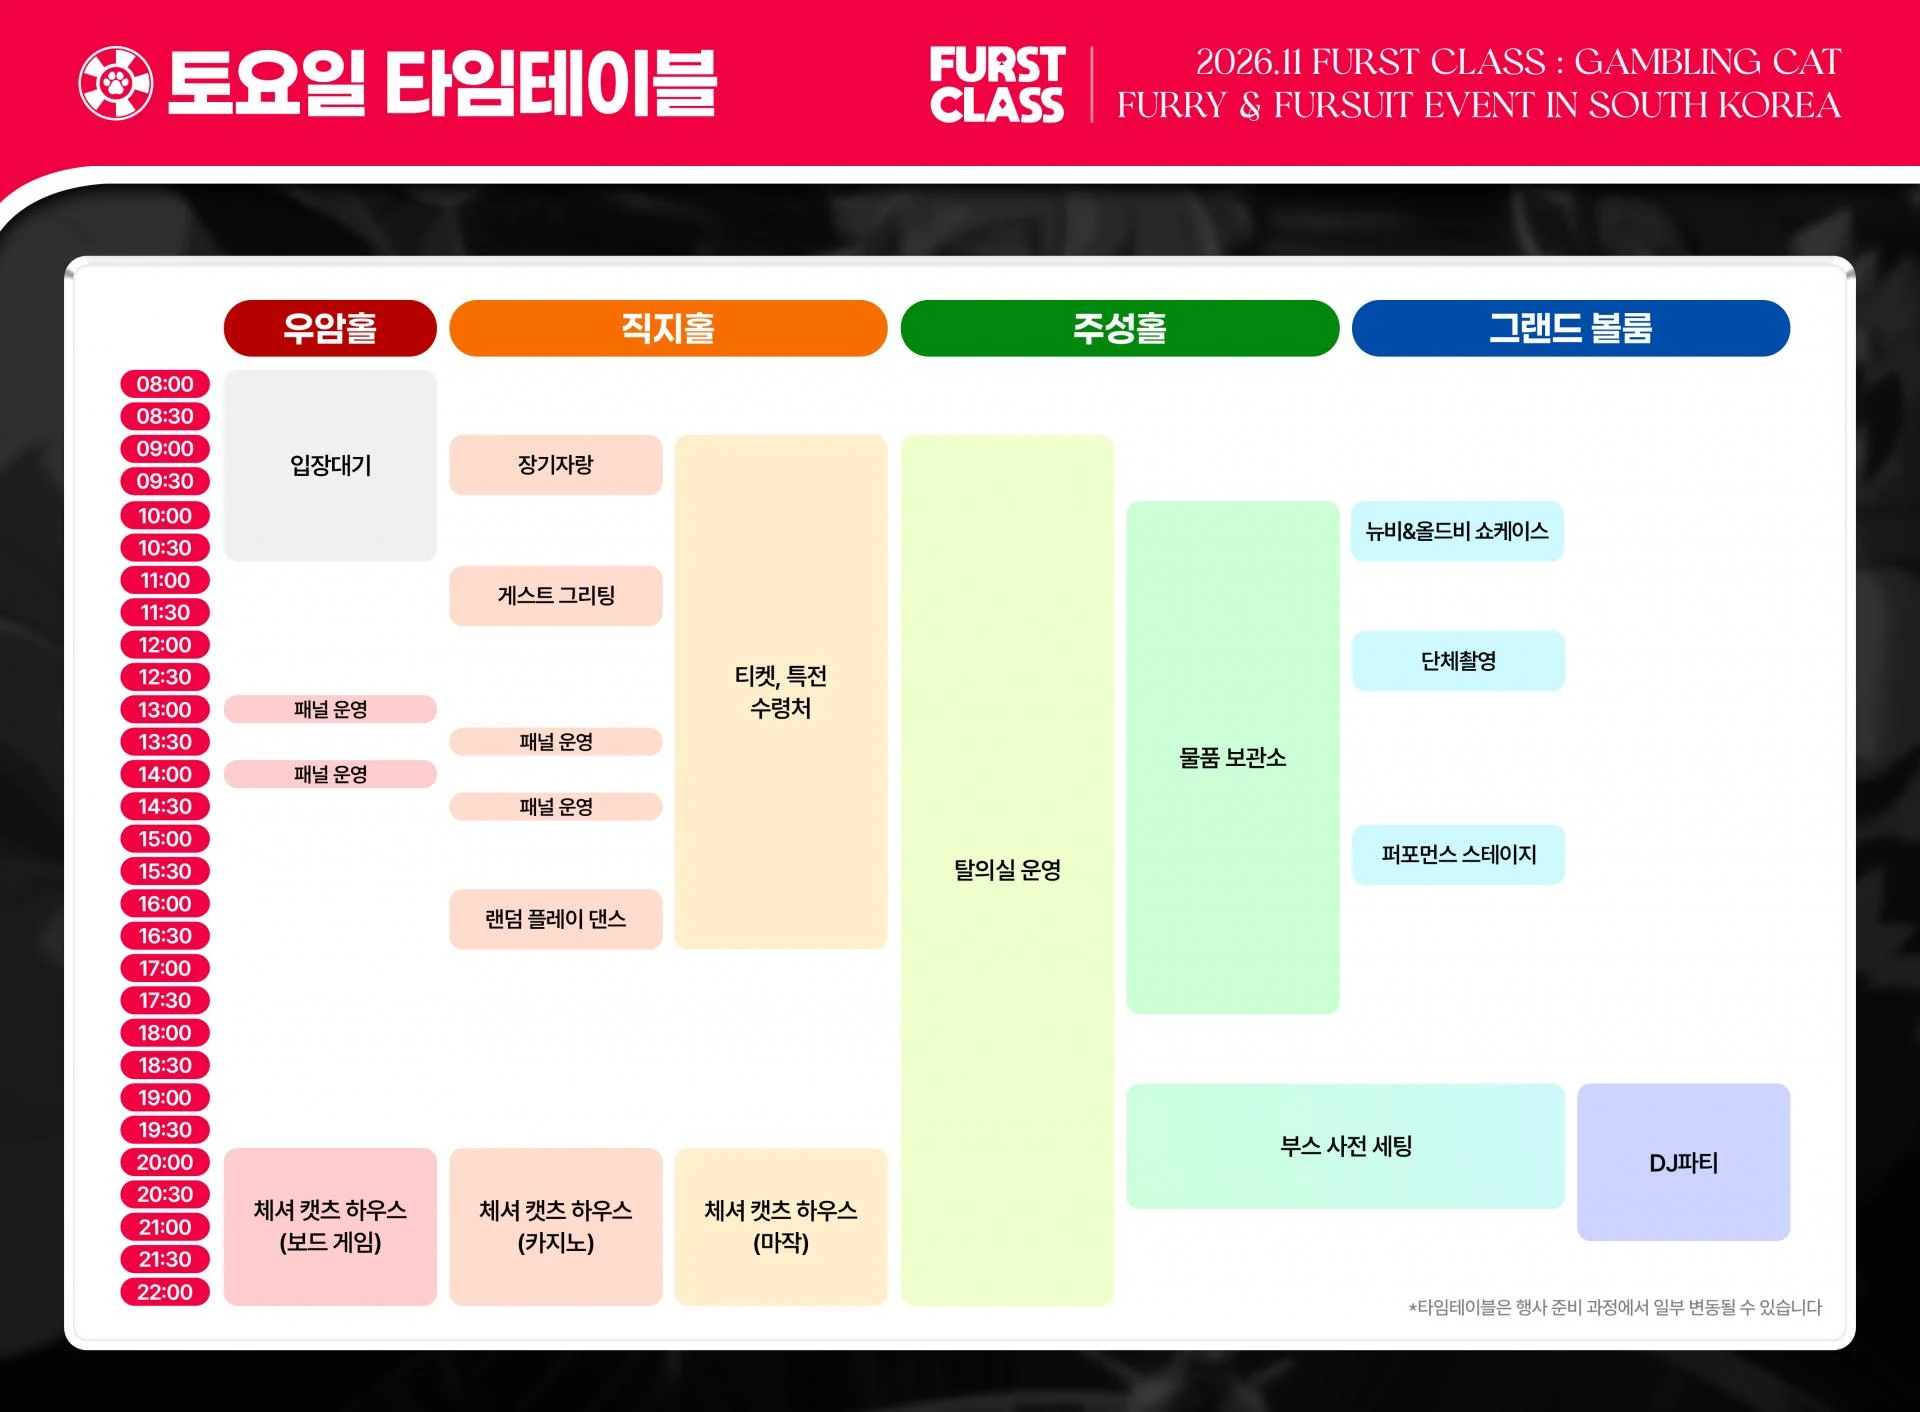
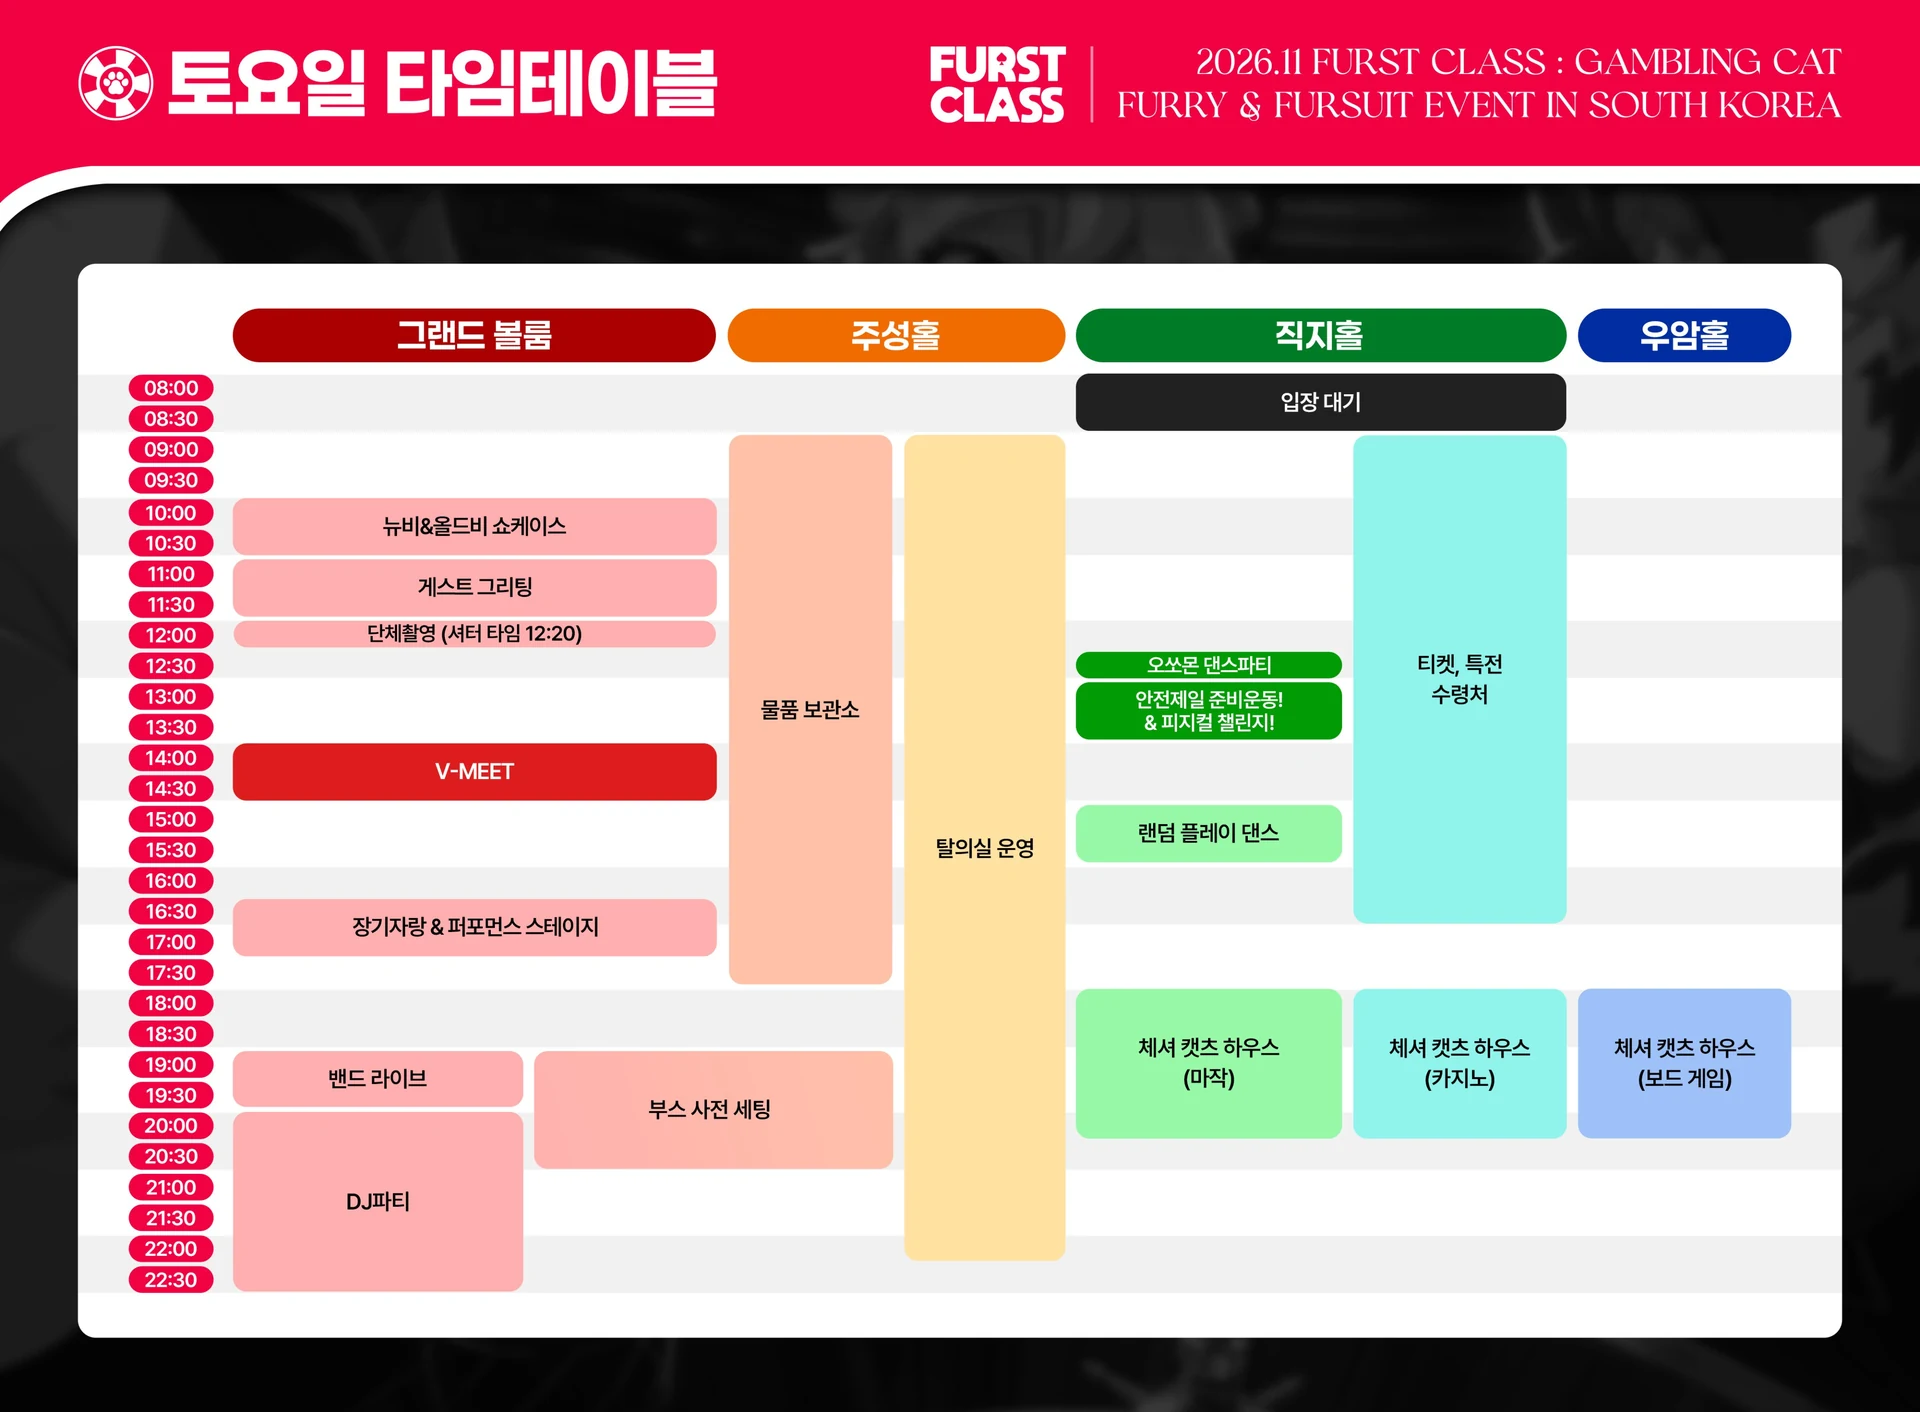
행사 시간표 탭 타임테이블을 공식 확정본(2026-10-24)으로 교체 (#61)
Claude-Session: https://claude.ai/code/session_01L4NeEYewGQCZoM1KTR5J76

diff --git a/index.html b/index.html
@@ -2085,7 +2085,7 @@ const I18N = {
     infoTimetableSun: "일요일 11/29",
     infoTimetableAlt: "{day} 타임테이블 (우암홀·직지홀·주성홀·그랜드 볼룸 시간별 일정)",
     infoTimetableHint: "이미지를 누르면 크게 볼 수 있어요. 큰 화면에서 한 번 더 누르면 원래 크기로 확대돼요.",
-    infoTimetableNote: "타임테이블은 행사 준비 과정에서 일부 변동될 수 있습니다 (공식 안내 이미지 기준, 2026-10-13).",
+    infoTimetableNote: "공식 계정에서 확정 발표한 타임테이블입니다 (2026-10-24 확정).",
     infoWeatherLoading: "날씨 정보를 불러오는 중...",
     infoWeatherUnavailable: "{date} 날씨 예보는 아직 제공되지 않습니다 (행사 약 2주 전부터 표시됩니다).",
     infoWeatherError: "날씨 정보를 불러오지 못했습니다.",
@@ -2240,7 +2240,7 @@ const I18N = {
     infoTimetableSun: "Sun 11/29",
     infoTimetableAlt: "{day} timetable (hourly schedule for each hall)",
     infoTimetableHint: "Tap the image to enlarge it. Tap again in the enlarged view to see it at full size.",
-    infoTimetableNote: "The timetable may change as the event is prepared (based on the official image, 2026-10-13).",
+    infoTimetableNote: "This is the final timetable announced by the official account (confirmed 2026-10-24).",
     infoWeatherLoading: "Loading weather...",
     infoWeatherUnavailable: "The forecast for {date} isn't available yet (it appears roughly 2 weeks before the event).",
     infoWeatherError: "Failed to load weather data.",
@@ -2395,7 +2395,7 @@ const I18N = {
     infoTimetableSun: "日曜日 11/29",
     infoTimetableAlt: "{day}のタイムテーブル（各ホールの時間別スケジュール）",
     infoTimetableHint: "画像をタップすると拡大できます。拡大画面でもう一度タップすると原寸で表示します。",
-    infoTimetableNote: "タイムテーブルは準備の都合で一部変更される場合があります（公式画像基準、2026-10-13）。",
+    infoTimetableNote: "公式アカウントで発表された確定版タイムテーブルです（2026-10-24 確定）。",
     infoWeatherLoading: "天気情報を読み込み中...",
     infoWeatherUnavailable: "{date}の天気予報はまだ提供されていません（開催の約2週間前から表示されます）。",
     infoWeatherError: "天気情報を読み込めませんでした。",
@@ -4468,10 +4468,11 @@ function fetchEventWeather(){
   return weatherCache;
 }
 
-// 행사 시간표 탭의 타임테이블: 공식 토요일·일요일 타임테이블 이미지(timetable/*.webp, 2026-10-13 받음)
+// 행사 시간표 탭의 타임테이블: 공식 토요일·일요일 타임테이블 이미지(timetable/*.webp, 2026-10-24 확정본으로 교체)
+// 이미지를 같은 이름으로 바꿀 때는 ?v= 값도 바꿔야 예전 이미지를 기억해 둔 브라우저에도 새 이미지가 보임
 const TIMETABLE_DAYS = [
-  { key: "sat", date: "2026-11-28", label: "infoTimetableSat", src: "timetable/sat.webp" },
-  { key: "sun", date: "2026-11-29", label: "infoTimetableSun", src: "timetable/sun.webp" },
+  { key: "sat", date: "2026-11-28", label: "infoTimetableSat", src: "timetable/sat.webp?v=20261024" },
+  { key: "sun", date: "2026-11-29", label: "infoTimetableSun", src: "timetable/sun.webp?v=20261024" },
 ];
 // 처음 보여줄 요일: 행사 둘째 날(한국 시간 11/29)에는 일요일, 그 외에는 토요일. 고른 요일은 탭을 오가는 동안 유지
 let timetableDay = new Date(Date.now() + 9 * 3600000).toISOString().slice(0, 10) === "2026-11-29" ? "sun" : "sat";

diff --git a/docs/wiki/기능-배치도와-행사-안내.md b/docs/wiki/기능-배치도와-행사-안내.md
@@ -49,12 +49,13 @@
   요일을 버튼으로 나눈 이유는 두 장을 세로로 이어 붙이면 탭이 너무 길어져서입니다.
 
 ## 어떻게 구현했나
-- 타임테이블: 이미지 `timetable/sat.webp`, `timetable/sun.webp`(받은 JPG 1920×1412를 WebP 품질 88로 바꿈, 각 약 120KB). 바뀐 공지가 나오면 같은 이름으로 파일만 교체하면 됩니다.
+- 타임테이블: 이미지 `timetable/sat.webp`, `timetable/sun.webp`. 2026-10-24 공식 계정이 발표한 확정본(받은 JPG 4096×3012)을 1920×1412로 줄여 WebP 품질 88로 바꿈(토 약 116KB, 일 약 105KB).
+  바뀐 공지가 나오면 같은 이름으로 파일을 교체하고, `TIMETABLE_DAYS`의 주소 끝 `?v=날짜` 값도 바꿉니다(브라우저가 기억해 둔 예전 이미지 대신 새 이미지를 받게 함). 하단 안내 문구 `infoTimetableNote`(한·영·일)의 날짜도 함께 고칩니다.
   탭 값 `TIMETABLE`(`VALID_ROWS`, 새로고침해도 유지), 탭 버튼 문구 `timetableBtn`, 상단 설명 `timetableHint`. 행사 안내와 같은 영역(`#infoView`)에 `.timetable-view` 클래스를 붙여 그림(`renderGrid()` → `renderTimetableView()`).
   `TIMETABLE_DAYS`(요일·날짜·문구 키·파일), `timetableDay`(보고 있는 요일), `setupTimetable()`(버튼 전환, 다른 요일 이미지를 미리 받아 둠).
   크게 보기는 부스컷과 같은 `openCutLightbox(src, alt, zoomable)`에 `zoomable`을 켜서 씀(`.cut-lightbox.zoomable`, `.zoomed`, `.cut-lightbox-close`).
   스타일 `.timetable-days`(메모 탭 필터 버튼 모양), `.timetable-img`, `.timetable-hint`, `.timetable-note`. 문구 i18n 키 `infoTimetable*`(한·영·일).
-  오프라인: 서비스 워커가 페이지와 같은 네트워크 우선 방식으로 저장하므로 한 번 연 뒤에는 오프라인에서도 보이고, 파일을 바꾸면 온라인일 때 바로 반영됩니다(`sw.js` 변경 없음).
+  오프라인: 서비스 워커가 페이지와 같은 네트워크 우선 방식으로 저장하므로 한 번 연 뒤에는 오프라인에서도 보이고, 파일을 바꾸면 온라인일 때 바로 반영됩니다(`sw.js` 변경 없음, 브라우저 자체 캐시는 `?v=` 값으로 피함).
 - 배치도: `renderMapView()`(범례 + SVG, 클릭·Enter 처리), `buildMapSvg()`(벽·탈의실·무대·구역·출입구·부스 칸), `MAP_SLOTS`(부스 번호 → 칸 좌표, 전체 `viewBox="100 200 1720 663"` 기준),
   `mapDoorArrows()`, `mapHallLabel()`(홀 이름표, 그린 뒤 글자 폭에 맞춰 바탕 크기 조정)
   - 부스 칸 크기: `MAP_W`=40, `MAP_H`=32(2026-10-04 26에서 키움), `MAP_STEP`=34. 가운데 두 줄은 높이 36, 간격 40
@@ -102,3 +103,4 @@
 - 2026-10-13 행사 안내 탭 옆에 "행사 시간표" 탭을 만들어 공식 토요일·일요일 타임테이블 표시 ([#58](https://github.com/mononono97/FurryBoothList/pull/58))
 - 2026-10-05 공식 X 글을 FxTwitter 대신 관리 화면에서 반영한 글만 보여주도록 변경 ([#43](https://github.com/mononono97/FurryBoothList/pull/43))
 - 2026-10-18 부스 상세 "📍 배치도에서 보기"(구역 열고 칸 강조), 배치도 탭 검색 강조 (이 PR)
+- 2026-10-24 타임테이블 이미지를 공식 계정의 확정본으로 교체, 안내 문구를 "확정 발표한 타임테이블 (2026-10-24 확정)"으로 바꾸고 이미지 주소에 `?v=20261024` 추가 (이 PR)

diff --git a/docs/wiki/변경-이력.md b/docs/wiki/변경-이력.md
@@ -4,6 +4,7 @@
 
 | 날짜 | 내용 | 커밋/PR |
 |---|---|---|
+| 2026-10-24 | 행사 시간표 탭의 토요일·일요일 타임테이블 이미지를 공식 계정이 확정 발표한 시간표로 교체, 하단 안내 문구를 "확정본(2026-10-24)"으로 수정(한·영·일), 예전 이미지가 남지 않게 이미지 주소에 버전 표시 추가 ([문서](기능-배치도와-행사-안내.md)) | (이 PR) |
 | 2026-10-18 | 메모 탭 카드의 방문 완료 버튼을 체크 모양으로 다시 디자인(안 간 부스는 연한 버튼에 빈 동그라미, 다녀온 부스만 초록+✓; 전에는 안 간 부스 버튼이 초록이라 이미 체크된 것처럼 보였음), "🧭 동선 보기"를 "🧭 구역별 보기"로 이름 변경 ([문서](기능-메모-방문상태-예산.md)) | (이 PR) |
 | 2026-10-18 | 행사 당일 기능 4가지: 부스 상세의 "📍 배치도에서 보기"(그 부스 구역을 열고 칸을 깜빡여 강조)와 배치도 탭 검색 강조, 메모 탭 "🧭 동선 보기"(방문 예정·완료 부스를 구역별로 묶고 남은 곳 표시)와 카드의 "✓ 방문 완료" 버튼, 부스별 "쓴 돈" 칸과 메모 탭 남은 예산 합계(동기화·초기화 포함), 최근 갱신 탭 "⭐ 내 부스만" 필터와 새 글 NEW·탭 점 표시 ([문서](기능-배치도와-행사-안내.md), [문서](기능-메모-방문상태-예산.md), [문서](기능-부스-상품-정보.md)) | #59 |
 | 2026-10-13 | 행사 안내 탭 옆에 "🕒 행사 시간표" 탭을 새로 만들어 공식 토요일·일요일 타임테이블 이미지 표시(요일 버튼으로 전환, 누르면 크게 보기, 크게 보기에서 한 번 더 누르면 원래 크기로 확대) ([문서](기능-배치도와-행사-안내.md)) | (이 PR) |

diff --git a/docs/wiki/사이트-구조.md b/docs/wiki/사이트-구조.md
@@ -11,7 +11,7 @@
 | `sw.js` | 오프라인 열람용 서비스 워커 (캐시 이름 `furstclass-cache-v2`) |
 | `avatars/` | 부스원 X 프로필 사진. 파일명은 `<X 아이디>.jpg` (대소문자까지 정확히) |
 | `booth-cuts/` | 부스컷 이미지. 파일명은 `<부스 번호>.webp` (예: `A01.webp`, 두 칸 부스는 `A37-38.webp`, 2026-10-05에 jpg에서 바뀜). 규칙은 `booth-cuts/README.md` |
-| `timetable/` | 행사 시간표 탭의 공식 타임테이블 이미지 `sat.webp`(토요일), `sun.webp`(일요일). 공지가 바뀌면 같은 이름으로 교체 (2026-10-13) |
+| `timetable/` | 행사 시간표 탭의 공식 타임테이블 이미지 `sat.webp`(토요일), `sun.webp`(일요일). 공지가 바뀌면 같은 이름으로 교체하고 `index.html`의 `?v=` 값도 바꿈 (2026-10-13 추가, 2026-10-24 확정본으로 교체) |
 | `data/furstclass_booths.csv` | 행사 측이 준 부스 시트 원본(CSV) |
 | `data/x-protected-handles.txt` | X 잠금(비공개) 계정 아이디 목록. 사이트에서 X 링크·아이디를 숨김 |
 | `data/x-handles-missing-avatars.txt` | 프로필 사진이 아직 없는 X 아이디 목록 (스크립트가 갱신) |
